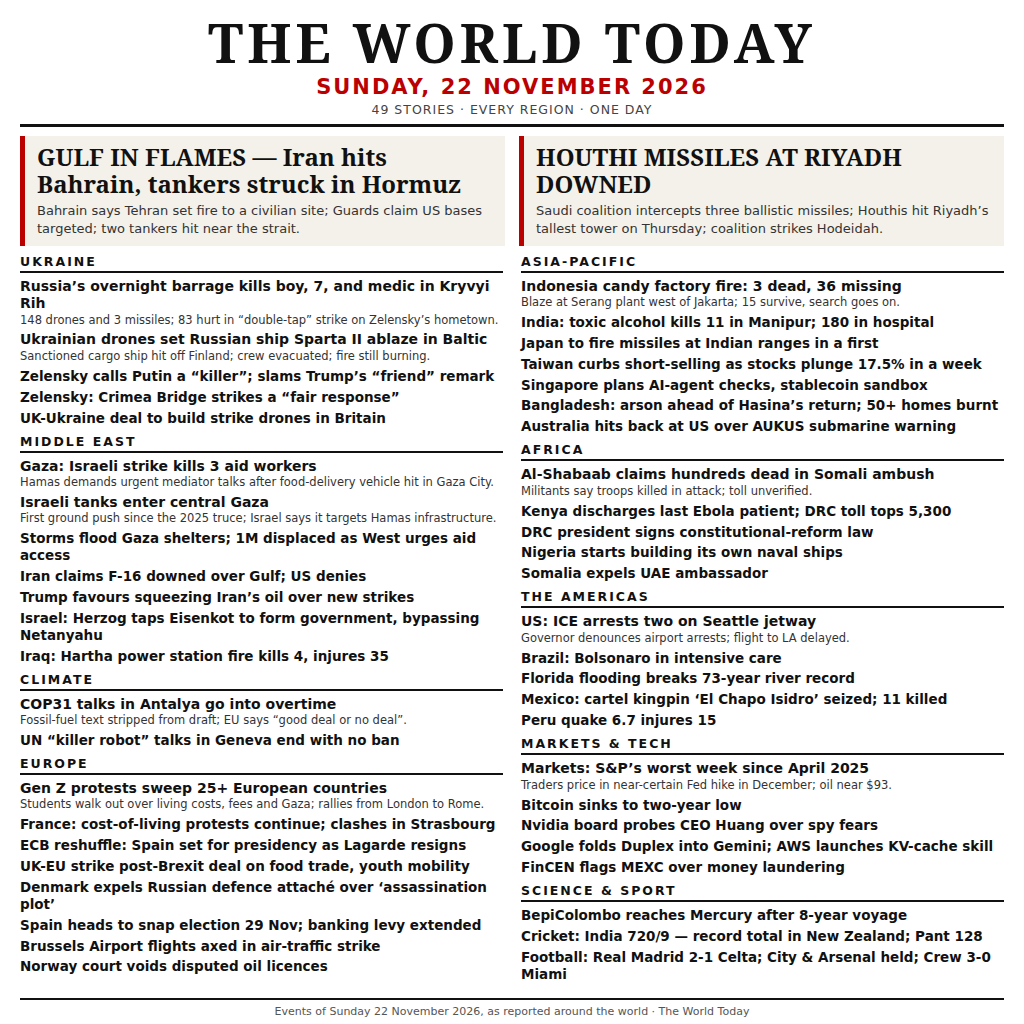
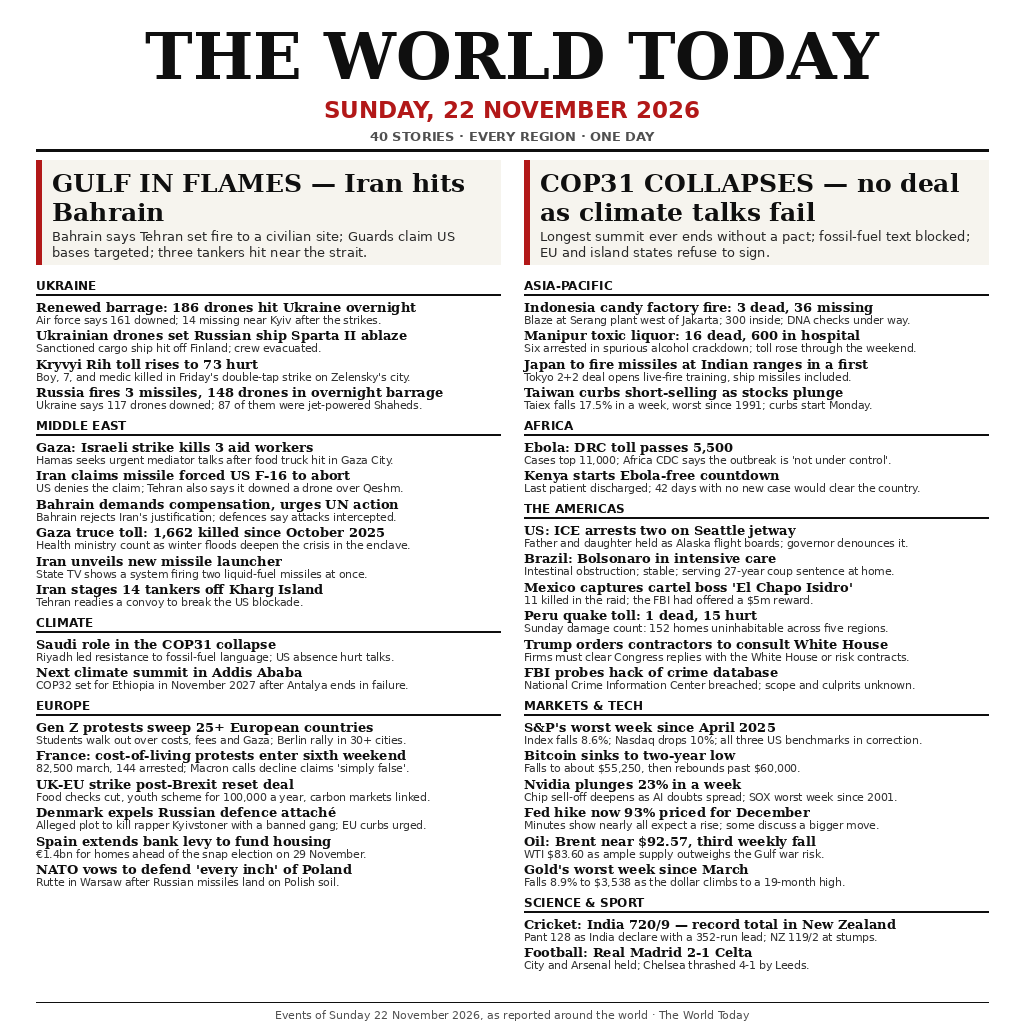
news-image-20261122 R2: The World Today - Sunday, 22 November 2026 (40 stories, one image)

Changed region(s): [[0.0, 0.0, 0.9688, 1.0]]

diff --git a/main.ts b/main.ts
@@ -1,22 +1,14 @@
-// main.ts — news-image-20261122 entry.
-// Copies the pre-rendered entry.png into the output directory.
-// Deterministic: the output bytes are exactly the bytes of entry.png.
-// Node 22, standard library only, no network at runtime.
-import { copyFileSync, existsSync, mkdirSync } from "node:fs";
-import { dirname, join, resolve } from "node:path";
+import { copyFileSync, mkdirSync } from "node:fs";
+import { dirname, join } from "node:path";
 import { fileURLToPath } from "node:url";
 
-const repoRoot = dirname(fileURLToPath(import.meta.url));
-const outDir = resolve(process.env.MAKEFUN_OUTPUT_DIR || "/output");
-const src = join(repoRoot, "entry.png");
-const dst = join(outDir, "entry.png");
+// The image lives next to this file in the repo. Resolve it relative to
+// main.ts so the copy works no matter where the grader invokes node from.
+const here = dirname(fileURLToPath(import.meta.url));
+const outDir = process.env.MAKEFUN_OUTPUT_DIR ?? "/output";
 
-// Create the output directory if needed. Never delete it: on the grader
-// /output is a mount point whose parent is not writable, so removing it
-// fails with EACCES and the run exits 1.
-// Fail loudly if the image is missing, so a broken run is never silent.
-if (!existsSync(src)) {
-  throw new Error("entry.png not found next to main.ts: " + src);
-}
+// Create the output directory (never delete it) and place the newspaper
+// image there. A byte-for-byte copy is deterministic, so both grader runs
+// write identical bytes. No network, no model calls, stdlib only.
 mkdirSync(outDir, { recursive: true });
-copyFileSync(src, dst);
+copyFileSync(join(here, "entry.png"), join(outDir, "entry.png"));

diff --git a/README.md b/README.md
@@ -2,4 +2,4 @@
 [![rank](https://make.fun/badge/news-image-20261122/rezanimo306-maker/news-image-20261122-entry/rank.svg)](https://make.fun/bounty/news-image-20261122/leaderboard?utm_source=github&utm_medium=readme&utm_campaign=news-image-20261122)
 [![reward](https://make.fun/badge/news-image-20261122/rezanimo306-maker/news-image-20261122-entry/reward.svg)](https://make.fun/bounty/news-image-20261122?utm_source=github&utm_medium=readme&utm_campaign=news-image-20261122)
 
-One image summing up the world's news of Sunday 22 November 2026: Iran's strikes on Bahrain and tankers in the Strait of Hormuz, Russia's deadly overnight barrage on Kryvyi Rih, the COP31 overtime talks, and 46 more stories from every region in one page.
+One image summing up the world's news of Sunday 22 November 2026: Iran's strikes on Bahrain and tankers in the Strait of Hormuz, the collapse of the COP31 climate talks, Russia's renewed overnight drone barrage on Ukraine, and 37 more stories from every region in one page.
